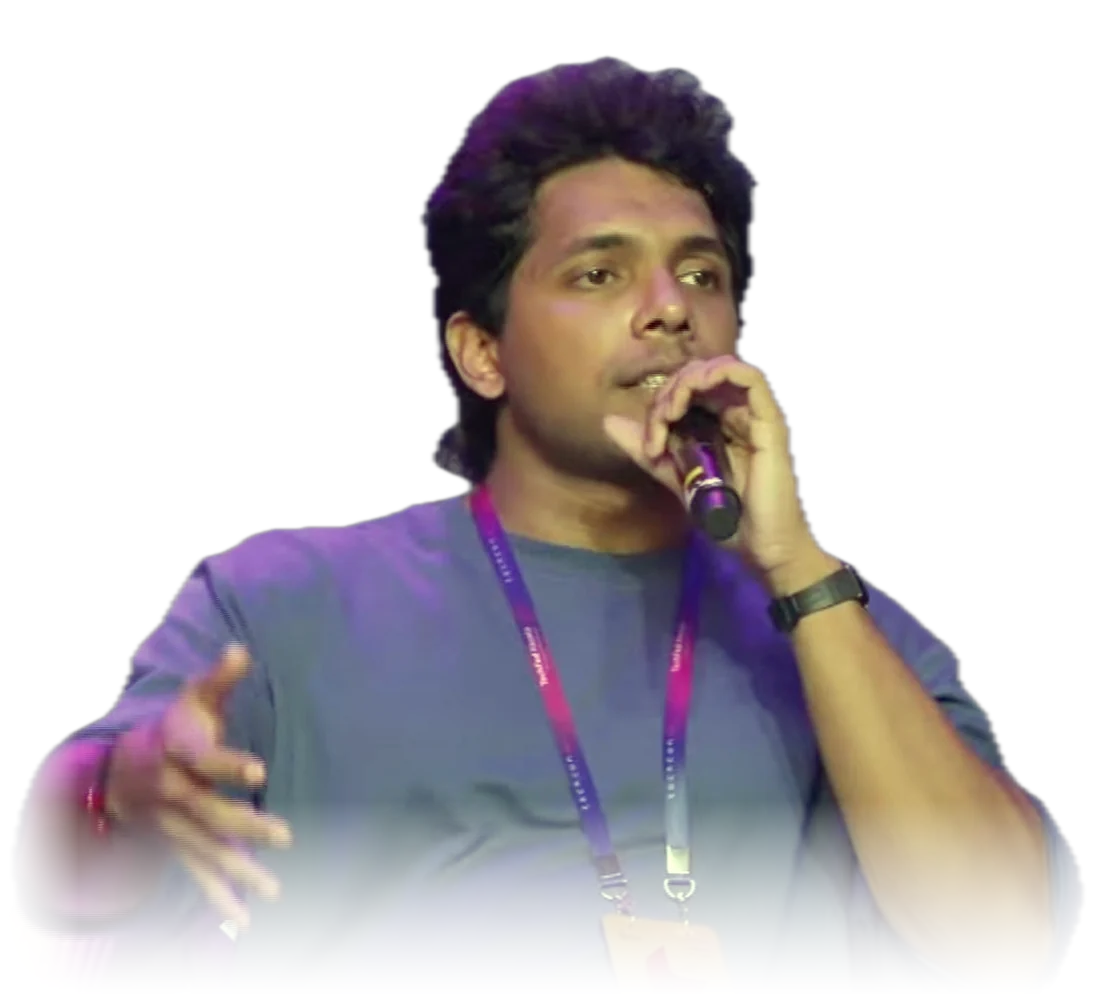
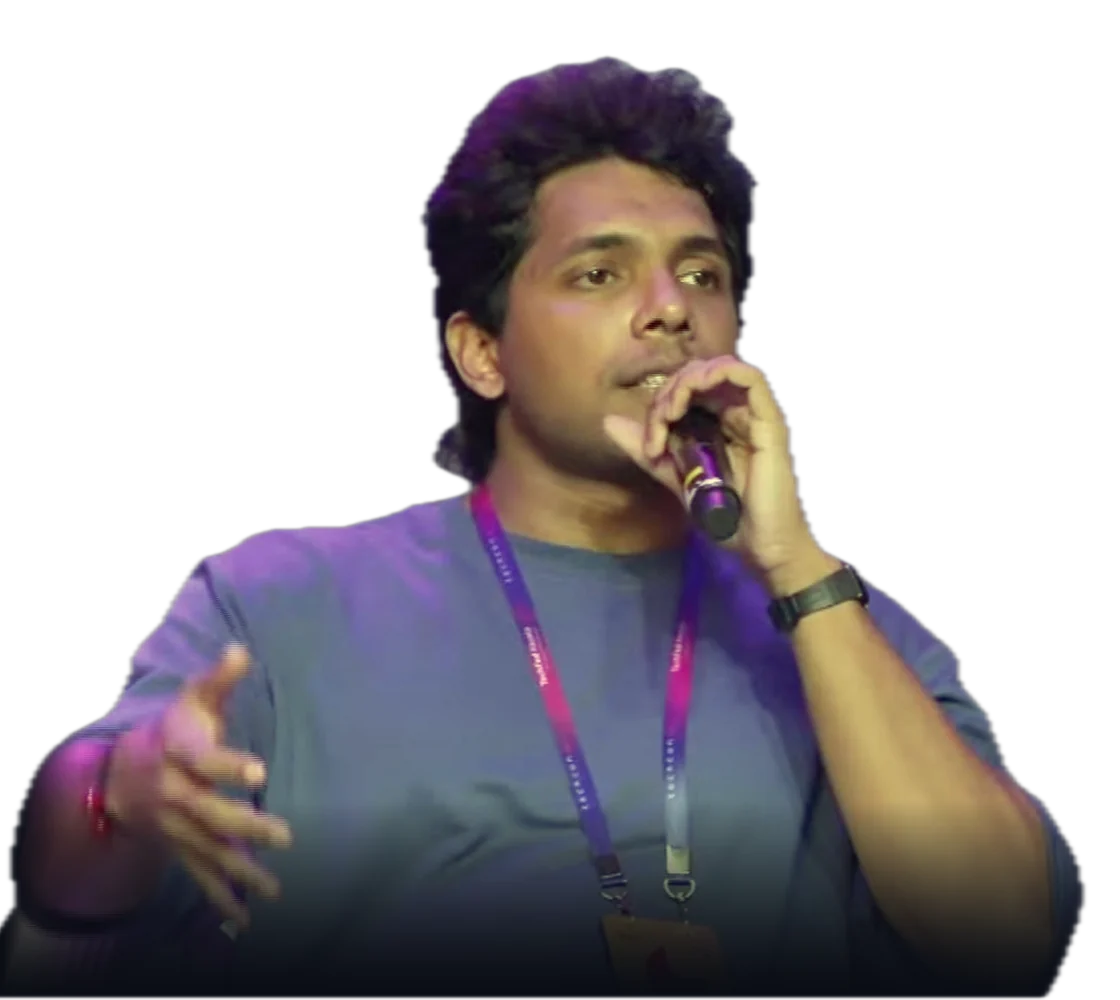
About: rings behind the portrait, shorter story, vision and mission side by side, team cards link to LinkedIn; drop numbered section labels site-wide (#10)

Changed region(s): [[0.0, 0.744, 0.9688, 1.0]]

diff --git a/src/pages/About.jsx b/src/pages/About.jsx
@@ -6,32 +6,18 @@ import karthik from "../assets/about/karthik-prakash.webp";
 import projectReport from "../assets/about/project-report.webp";
 import "./Home.css";
 
-const STORY = [
-  "Superfloat began in 2024 as a college major project. We set out to make large language models run faster on the hardware people already had, by quantizing them: holding each weight in fewer bits without losing what the model had learned. The report was called Weight-Aware Selective Quantization to Improve Performance of Deep Learning Models.",
-  "The deeper we went, the clearer one pattern became. Trained networks keep almost every weight in a narrow band of values, while the standard formats spend a large share of each number on range those weights never reach. Quantization could squeeze that waste out of memory. The arithmetic underneath still ran in floating point and still paid for it.",
-  "So we went after the numbers themselves. Out of that work came a family of numerics, from 4 bits to 16, that keeps models accurate while making every multiply-add simpler and faster. Because the arithmetic itself gets simpler, the speed-up reaches the circuit, which quantization alone could not do.",
-  "A better number only pays off on hardware built for it, so we built the hardware. Our Atreides accelerator is designed around Superfloat arithmetic from the processing element up. Three chips have been signed off on SkyWater's 130 nm process, and the first Superfloat silicon tapes out in December 2026.",
-];
-
-const PILLARS = [
-  { title: "Numerics", detail: "A family of number formats, from 4 to 16 bits, that holds a model's accuracy while making the arithmetic beneath it simpler." },
-  { title: "Silicon", detail: "Accelerators designed around those formats from the processing element up, proven at 130 nm and planned for 2 nm." },
-  { title: "Software", detail: "Compilers, kernels and Python tooling that take a trained model onto Superfloat hardware without rebuilding it." },
-];
-
 const TEAM = [
-  { name: "Alosh Denny", role: "Founder and CEO", photo: alosh },
-  { name: "Poojith Devan", role: "Director of R&D", photo: poojith },
-  { name: "Karthik Prakash", role: "Director of Compiler Design", photo: karthik },
+  { name: "Alosh Denny", role: "Founder and CEO", photo: alosh, linkedin: "https://www.linkedin.com/in/aloshdenny/" },
+  { name: "Poojith Devan", role: "Director of R&D", photo: poojith, linkedin: "https://www.linkedin.com/in/poojith-devan/" },
+  { name: "Karthik Prakash", role: "Director of Compiler Design", photo: karthik, linkedin: "https://www.linkedin.com/in/karthikp751/" },
 ];
 
 export default function About() {
   return (
     <div className="technical-home about-page">
       <section className="sf-container about-hero">
-        <div className="section-label" data-reveal="">ABOUT SUPERFLOAT</div>
-        <h1 data-reveal="1">Faster intelligence starts with <em>better numbers.</em></h1>
-        <p className="about-lede" data-reveal="2">Superfloat designs number formats for AI and the chips that compute in them. Every answer a model gives is billions of multiply-adds, and each one costs time, silicon and power. We make each of them cost less.</p>
+        <h1 data-reveal="">Faster intelligence starts with <em>better numbers.</em></h1>
+        <p className="about-lede" data-reveal="1">Superfloat designs number formats for AI and the chips that compute in them. Every answer a model gives is billions of multiply-adds, and each one costs time, silicon and power. We make each of them cost less.</p>
       </section>
 
       <section className="sf-container about-lead" aria-labelledby="about-lead-quote">
@@ -48,9 +34,9 @@ export default function About() {
 
       <section className="sf-section sf-container about-story">
         <div className="about-story__copy">
-          <div className="section-label" data-reveal="">01 / OUR STORY</div>
-          <h2 data-reveal="1">It began as a college project.</h2>
-          {STORY.map((paragraph, i) => <p key={i} data-reveal={String(Math.min(i + 1, 3))}>{paragraph}</p>)}
+          <h2 data-reveal="">Our story</h2>
+          <p data-reveal="1">Superfloat began in 2024 as a college major project on quantization: making large language models run faster by holding each weight in fewer bits, without losing what the model had learned. Along the way we saw that trained networks keep almost every weight in a narrow band of values, while standard formats spend much of each number on range those weights never reach.</p>
+          <p data-reveal="2">That took us past compression to the numbers themselves, and to a family of numerics, from 4 to 16 bits, that keeps models accurate while making every multiply-add simpler and faster. A better number pays off only on hardware built for it, so we built the Atreides accelerator around ours. Three chips are signed off on SkyWater&apos;s 130 nm process, and the first Superfloat silicon tapes out in December 2026.</p>
         </div>
         <figure className="about-story__figure" data-reveal="2">
           <img src={projectReport} width="950" height="760" loading="lazy" alt="Cover of the major project report: Weight-Aware Selective Quantization to Improve Performance of Deep Learning Models" />
@@ -58,35 +44,29 @@ export default function About() {
         </figure>
       </section>
 
-      <section className="sf-section sf-container about-vision">
-        <div className="section-label" data-reveal="">02 / OUR VISION</div>
-        <h2 data-reveal="1">Intelligence fast enough to reason in real time, and cheap enough to <em>run everywhere.</em></h2>
-        <p data-reveal="2">The cost of AI is set by its arithmetic: how many bits move, how many transistors switch, how many watts a data centre draws for every answer. We see reasoning that returns in under a millisecond, an answer priced by the work in it with nothing lost to unused bits, and the same efficiency reaching from hyperscale clusters to the devices in people&apos;s hands.</p>
-      </section>
-
-      <section className="sf-section sf-container about-mission">
-        <div className="section-label" data-reveal="">03 / OUR MISSION</div>
-        <div className="section-heading" data-reveal="1">
-          <h2>Make every bit count, from the <em>number format to the chip.</em></h2>
-          <p>We design the numerics, the silicon and the software as one system, so that models run twice as fast at half the price.</p>
+      <section className="sf-section sf-container about-aims">
+        <div data-reveal="">
+          <h2>Our vision</h2>
+          <p className="about-aims__lead">Intelligence fast enough to reason in real time, and cheap enough to run everywhere.</p>
+          <p>Reasoning that returns in under a millisecond, an answer priced by the work in it with nothing lost to unused bits, and the same efficiency from hyperscale clusters to the devices in people&apos;s hands.</p>
         </div>
-        <ol className="about-pillars" data-reveal="2">
-          {PILLARS.map((pillar, i) => <li key={pillar.title}><span>{String(i + 1).padStart(2, "0")}</span><h3>{pillar.title}</h3><p>{pillar.detail}</p></li>)}
-        </ol>
+        <div data-reveal="1">
+          <h2>Our mission</h2>
+          <p className="about-aims__lead">Make every bit count, from the number format to the chip.</p>
+          <p>We design the numerics, the silicon and the software as one system: a family of number formats, from 4 to 16 bits, that holds a model&apos;s accuracy while making the arithmetic beneath it simpler; accelerators designed around those formats from the processing element up, proven at 130 nm and planned for 2 nm; and compilers, kernels and Python tooling that take a trained model onto Superfloat hardware without rebuilding it.</p>
+        </div>
       </section>
 
       <section className="sf-section sf-container about-team">
-        <div className="section-label" data-reveal="">04 / OUR TEAM</div>
-        <div className="section-heading" data-reveal="1">
-          <h2>The people building <em>Superfloat.</em></h2>
-          <p>Hardware, numerics and compilers under one roof, from the first format to the first chip.</p>
-        </div>
+        <h2 data-reveal="">Our team</h2>
         <ul className="about-team__grid">
           {TEAM.map((person, i) => (
-            <li key={person.name} className="about-person" data-reveal={String(i + 1)}>
-              <div className="about-person__photo"><img src={person.photo} width="720" height="900" loading="lazy" alt={person.name} /></div>
-              <h3>{person.name}</h3>
-              <span>{person.role}</span>
+            <li key={person.name} data-reveal={String(i + 1)}>
+              <a className="about-person" href={person.linkedin} target="_blank" rel="noopener noreferrer" aria-label={`${person.name}, ${person.role}, on LinkedIn`}>
+                <div className="about-person__photo"><img src={person.photo} width="720" height="900" loading="lazy" alt="" /></div>
+                <h3>{person.name} <span aria-hidden="true">↗</span></h3>
+                <span className="about-person__role">{person.role}</span>
+              </a>
             </li>
           ))}
         </ul>

diff --git a/src/pages/Home.css b/src/pages/Home.css
@@ -249,8 +249,7 @@ a:focus-visible,button:focus-visible,input:focus-visible,select:focus-visible { 
 .investors-rounds { display:grid; grid-template-columns:repeat(3,1fr); gap:16px; margin-top:24px; }
 .investors-steps { list-style:none; margin:24px 0 0; padding:0; display:grid; grid-template-columns:repeat(4,1fr); gap:16px; }
 .investors-steps li { padding:24px; border:1px solid var(--sf-line); border-radius:20px; }
-.investors-steps span { font:11px var(--sf-mono); color:var(--sf-accent); letter-spacing:1px; }
-.technical-home .investors-steps h3 { margin:14px 0 8px; font-size:17px; font-weight:500; }
+.technical-home .investors-steps h3 { margin:0 0 8px; font-size:17px; font-weight:500; }
 .technical-home .investors-steps p { font-size:13px; line-height:1.6; }
 .investors-form { display:grid; grid-template-columns:1fr 1fr; gap:18px 20px; margin-top:24px; padding:32px; border:1px solid var(--sf-line); border-radius:24px; background:var(--sf-panel); }
 .investors-form label { display:flex; flex-direction:column; gap:8px; font:10px var(--sf-mono); letter-spacing:1px; color:var(--sf-muted); text-transform:uppercase; }
@@ -268,11 +267,12 @@ a:focus-visible,button:focus-visible,input:focus-visible,select:focus-visible { 
 @media(max-width:1050px) { .investors-grid,.investors-steps { grid-template-columns:repeat(2,1fr); }.investors-rounds { grid-template-columns:1fr; } }
 @media(max-width:760px) { .investors-grid,.investors-steps,.investors-form { grid-template-columns:1fr; }.investors-form { padding:22px; } }
 
-/* About: a lead quote beside the CEO's portrait (as on netrasemi.com/about), the story, vision, mission and team */
+/* About: a lead quote beside the CEO's portrait (as on netrasemi.com/about), the story, vision and mission, and the team */
 .about-hero { padding-block:96px 24px; }
-.about-hero h1 { max-width:980px; margin:22px 0 24px; font-size:clamp(44px,5.4vw,76px); font-weight:500; letter-spacing:-3px; line-height:1.05; }
+.about-hero h1 { max-width:980px; margin:0 0 24px; font-size:clamp(44px,5.4vw,76px); font-weight:500; letter-spacing:-3px; line-height:1.05; }
 .technical-home .about-lede { max-width:640px; font-size:17px; }
 .about-lead { display:grid; grid-template-columns:minmax(0,.9fr) minmax(0,1.1fr); align-items:center; gap:72px; padding-block:40px 24px; }
+/* The rings sit behind the portrait; its edges fade into the page colour but stay opaque, so they never show through the body */
 .about-lead__portrait { position:relative; isolation:isolate; width:100%; max-width:560px; justify-self:center; }
 .about-lead__portrait::before,.about-lead__portrait::after { content:""; position:absolute; z-index:-1; left:50%; top:44%; aspect-ratio:1; border-radius:50%; transform:translate(-50%,-50%); }
 .about-lead__portrait::before { width:94%; border:1px solid var(--sf-line); background:radial-gradient(circle at 50% 42%,color-mix(in srgb,var(--sf-accent) 24%,transparent),transparent 62%); }
@@ -284,25 +284,32 @@ a:focus-visible,button:focus-visible,input:focus-visible,select:focus-visible { 
 .about-lead__by { display:flex; flex-direction:column; gap:4px; margin-top:30px; padding-left:16px; border-left:2px solid var(--sf-accent); }
 .about-lead__by strong { font:600 16px Arial,Helvetica,sans-serif; color:var(--sf-ink); }
 .about-lead__by span { font:11px/1.6 var(--sf-mono); letter-spacing:1px; color:var(--sf-muted); text-transform:uppercase; }
-.about-story { display:grid; grid-template-columns:minmax(0,1.05fr) minmax(0,.95fr); align-items:start; gap:72px; }
-.technical-home .about-story h2 { margin:22px 0 10px; }
+.about-story { display:grid; grid-template-columns:minmax(0,1.05fr) minmax(0,.95fr); align-items:center; gap:72px; }
+.technical-home .about-story h2 { margin:0 0 6px; }
 .technical-home .about-story p { margin-top:20px; font-size:16px; line-height:1.8; }
-.about-story__figure { position:sticky; top:120px; margin:12px 0 0; }
+.about-story__figure { margin:0; }
 .about-story__figure img { display:block; width:100%; height:auto; border:1px solid var(--sf-line); border-radius:24px; }
 .about-story__figure figcaption { margin-top:14px; font:10px/1.6 var(--sf-mono); letter-spacing:1.5px; color:var(--sf-muted); }
-.technical-home .about-vision h2 { max-width:1100px; margin:22px 0 30px; font-size:clamp(34px,4.4vw,62px); letter-spacing:-2.4px; line-height:1.08; }
-.technical-home .about-vision p { max-width:780px; font-size:17px; line-height:1.8; }
-.about-pillars { list-style:none; margin:0; padding:0; display:grid; grid-template-columns:repeat(3,1fr); gap:16px; }
-.about-pillars li { padding:28px; border:1px solid var(--sf-line); border-radius:20px; background:var(--sf-panel); }
-.about-pillars span { font:11px var(--sf-mono); letter-spacing:1px; color:var(--sf-accent); }
-.technical-home .about-pillars h3 { margin:18px 0 10px; font-size:21px; }
-.technical-home .about-pillars p { font-size:14px; line-height:1.7; }
+.about-aims { display:grid; grid-template-columns:1fr 1fr; gap:24px; }
+.about-aims > div { padding:36px; border:1px solid var(--sf-line); border-radius:24px; background:var(--sf-panel); }
+.technical-home .about-aims h2 { font-size:clamp(26px,2.6vw,34px); letter-spacing:-1px; }
+.technical-home .about-aims .about-aims__lead { margin:18px 0 14px; font-size:20px; line-height:1.45; color:var(--sf-ink); }
+.technical-home .about-aims p { font-size:14px; line-height:1.75; }
+.technical-home .about-team h2 { margin-bottom:32px; }
 .about-team__grid { list-style:none; margin:0; padding:0; display:grid; grid-template-columns:repeat(3,1fr); gap:20px; }
-.about-person__photo { aspect-ratio:4 / 5; overflow:hidden; border:1px solid var(--sf-line); border-radius:22px; background:radial-gradient(ellipse 72% 58% at 50% 40%,color-mix(in srgb,var(--sf-accent) 17%,transparent),transparent 72%),var(--sf-panel); }
+.about-person { display:block; color:inherit; text-decoration:none; transition:transform .45s cubic-bezier(.2,.7,.2,1); }
+.about-person:hover,.about-person:focus-visible { transform:translateY(-8px); }
+.about-person:focus-visible { outline:none; }
+.about-person:focus-visible .about-person__photo { outline:2px solid var(--sf-accent); outline-offset:3px; }
+.about-person__photo { aspect-ratio:4 / 5; overflow:hidden; border:1px solid var(--sf-line); border-radius:22px; background:radial-gradient(ellipse 72% 58% at 50% 40%,color-mix(in srgb,var(--sf-accent) 17%,transparent),transparent 72%),var(--sf-panel); transition:border-color .45s,box-shadow .45s; }
+.about-person:hover .about-person__photo,.about-person:focus-visible .about-person__photo { border-color:color-mix(in srgb,var(--sf-accent) 55%,var(--sf-line)); box-shadow:0 28px 70px -40px var(--sf-accent); }
 .about-person__photo img { display:block; width:100%; height:100%; object-fit:cover; }
 .technical-home .about-person h3 { margin:20px 0 4px; font-size:20px; }
-.about-person span { font:11px/1.6 var(--sf-mono); letter-spacing:1px; color:var(--sf-muted); text-transform:uppercase; }
+.about-person h3 span { color:var(--sf-muted); font-size:15px; transition:color .3s; }
+.about-person:hover h3 span,.about-person:focus-visible h3 span { color:var(--sf-accent); }
+.about-person__role { font:11px/1.6 var(--sf-mono); letter-spacing:1px; color:var(--sf-muted); text-transform:uppercase; }
 .technical-home .about-team__join { margin:44px 0 40px; font-size:14px; }
 .about-team__join a { color:var(--sf-accent); text-decoration:none; }
-@media(max-width:1050px) { .about-lead,.about-story { gap:44px; }.about-story { grid-template-columns:1fr; }.about-story__figure { position:static; max-width:620px; } }
-@media(max-width:760px) { .about-hero { padding-block:64px 8px; }.about-lead { grid-template-columns:1fr; gap:36px; }.about-lead__portrait { max-width:420px; }.about-lead__mark { margin-top:28px; }.about-pillars,.about-team__grid { grid-template-columns:1fr; }.about-person { max-width:420px; } }
+@media(max-width:1050px) { .about-lead,.about-story { gap:44px; }.about-story { grid-template-columns:1fr; }.about-story__figure { max-width:620px; } }
+@media(max-width:760px) { .about-hero { padding-block:64px 8px; }.about-lead { grid-template-columns:1fr; gap:36px; }.about-lead__portrait { max-width:420px; }.about-lead__mark { margin-top:28px; }.about-aims,.about-team__grid { grid-template-columns:1fr; }.about-aims > div { padding:26px; }.about-team__grid li { max-width:420px; } }
+@media(prefers-reduced-motion:reduce) { .about-person,.about-person__photo { transition:none; }.about-person:hover,.about-person:focus-visible { transform:none; } }

diff --git a/src/pages/blogs/accelerated-hardware.js b/src/pages/blogs/accelerated-hardware.js
@@ -3,10 +3,10 @@ const acceleratedHardware = {
   body: `
 <p class="article-lead">A guide to the interactive lab: what it visualizes, how its numbers are calculated, and where the model stops.</p>
 <aside class="article-note">Implementation notes, not benchmark results. This page describes the website’s educational model. It does not establish measured latency, energy use, silicon area, or neural-network accuracy.</aside>
-<h2>01 / Representation comes first</h2>
+<h2>Representation comes first</h2>
 <p>The format explorer places two layouts side by side conceptually. BF16 allocates one sign bit, eight exponent bits, and seven fraction bits. The Superfloat view uses one sign bit and a scalable value field, with a total width from 4 to 16 bits.</p>
 <p>The displayed bit pattern is a field-layout illustration. Switching formats does not numerically convert the same value between them. A complete numerical specification would also need to define scaling, rounding, saturation, and representable values.</p>
-<h2>02 / Count the storage, not the speedup</h2>
+<h2>Count the storage, not the speedup</h2>
 <p>For an ideally packed tensor containing N values at b bits per value, the payload requires N × b / 8 bytes. One million 16-bit values occupy 2.00 MB; one million 4-bit values occupy 0.50 MB, using decimal megabytes.</p>
 <pre><code>payload_bytes = value_count * bits_per_value / 8
 relative_storage = bits_per_value / 16
@@ -16,11 +16,11 @@ BF16: 2,000,000 bytes
 SF8:  1,000,000 bytes
 SF4:    500,000 bytes</code></pre>
 <p>This calculation excludes alignment, scales, metadata, and runtime allocations. A 75% reduction in payload bits is not a 75% reduction in inference latency or energy. Those quantities require measurements on a specified implementation.</p>
-<h2>03 / A multiply-accumulate in flight</h2>
+<h2>A multiply-accumulate in flight</h2>
 <p>The scalar lab traces an operation of the form c ← a × b + c. It uses a nine-stage pipeline model and counts a multiply-accumulate as two operations.</p>
 <p>Pipeline latency and issue rate describe different things. A result takes multiple stages to arrive, while independent operands can occupy those stages at the same time. Under the lab’s assumption of one completed MAC per clock after filling, the steady-state modeled rate is 2 × clock frequency operations per second. Occupying nine stages does not mean completing nine MACs every clock.</p>
 <p>Use <strong>Step +1</strong> to inspect one model cycle at a time. Play compresses a run into a few visible seconds; the clock controls the calculated hardware time, not the browser’s playback speed.</p>
-<h2>04 / From one element to an array</h2>
+<h2>From one element to an array</h2>
 <p>In the array visualization, each processing element contributes to an output in C = A × B. Data arrives at staggered times, multiplication and accumulation overlap, and the array eventually drains. The operands are deterministic sample values for inspection, not tensors from a trained network.</p>
 <p>The comparison view uses illustrative BF16 latency parameters of 16 or 32 cycles against the scalar model’s nine-stage latency. It also scales the illustrated BF16 cadence by that ratio. This is a simplifying assumption: an instruction’s latency alone does not determine an accelerator’s throughput. The view is not a cycle-accurate model of an NVIDIA Tensor Core.</p>
 <pre><code>illustrative_cadence_ratio = BF16_latency / 9
@@ -30,7 +30,7 @@ modeled_time_seconds = model_cycles / clock_hz
 16 / 9 ≈ 1.78
 32 / 9 ≈ 3.56</code></pre>
 <p>These ratios must not be presented as measured end-to-end speedups. Memory traffic, tile shape, scheduling, software, and the actual datapath can all change the result.</p>
-<h2>05 / What a reproducible benchmark needs</h2>
+<h2>What a reproducible benchmark needs</h2>
 <ul><li><strong>Numerics:</strong> the precise encoding, conversion rules, calibration procedure, and accuracy on a named model and dataset.</li><li><strong>Hardware:</strong> the device or implementation revision, clock, memory configuration, and power-measurement method.</li><li><strong>Workload:</strong> tensor shapes, batch size, precision, warm-up, and whether transfer time is included.</li><li><strong>Comparison:</strong> equivalent workloads, the baseline implementation, repeated runs, and reported variation.</li></ul>
 <p>The website currently provides a way to inspect the design space. Validated benchmark results can be added alongside their methodology and reproducible artifacts when available.</p>
 <p><a href="/#architecture">Return to the compute lab →</a></p>

diff --git a/src/pages/Home.jsx b/src/pages/Home.jsx
@@ -36,21 +36,21 @@ export default function Home() {
         <div className="hero-stage" data-reveal="3"><GlyphHero /></div>
       </section>
       <section id="technology" className="sf-section sf-container">
-        <div className="section-label" data-reveal="">01 / THE NUMBER FORMAT</div>
+        <div className="section-label" data-reveal="">THE NUMBER FORMAT</div>
         <div className="section-heading" data-reveal="1"><h2>Precision is a<br /><em>design variable.</em></h2><p>Every stored bit has a cost. Superfloat lets you explore word widths from SF4 to SF16, making numerical representation part of the hardware design space.</p></div>
         <div data-reveal="2"><FormatExplorer /></div>
         <div className="format-notes" data-reveal="1"><p><span>READ THE WORD</span>BF16 separates sign, exponent, and fraction. The Superfloat view highlights the sign and scalable value field.</p><p><span>CHOOSE THE TRADEOFF</span>Fewer bits reduce raw storage per value. Model accuracy and realized speed depend on the workload and implementation.</p></div>
       </section>
       <section className="architecture-band" id="architecture">
         <div className="sf-container sf-section">
-          <div className="section-label" data-reveal="">02 / THE COMPUTE LAB</div>
+          <div className="section-label" data-reveal="">THE COMPUTE LAB</div>
           <div className="section-heading" data-reveal="1"><h2>2× faster<br /><em>at ½ the price.</em></h2><p>The same multiply-accumulate, without the exponent hardware. Watch an SF16 unit and a BF16 unit run side by side, then flip to the systolic arrays they build.</p></div>
           <div className="lab-array" data-reveal="2"><ComputeArray /></div>
           <div data-reveal="2"><FormatRace /></div>
         </div>
       </section>
       <section id="applications" className="sf-section sf-container">
-        <div className="section-label" data-reveal="">03 / THE DESIGN SPACE</div>
+        <div className="section-label" data-reveal="">THE DESIGN SPACE</div>
         <div className="section-heading" data-reveal="1"><h2>Big models.<br /><em>Finite resources.</em></h2><p>Edge inference lives inside constraints. A configurable datatype gives hardware designers another variable to investigate.</p></div>
         <div className="use-case-grid">
           <article data-reveal="1"><div className="case-glyph" aria-hidden="true">[ W ] → [ W′ ]</div><span className="section-label">MEMORY / REPRESENTATION</span><h3>Make every bit count.</h3><p>Explore smaller representations for weights and activations. Evaluate storage savings alongside the numerical behavior of your workload.</p><span className="case-tag">WEIGHTS · ACTIVATIONS · STORAGE</span></article>
@@ -59,11 +59,11 @@ export default function Home() {
         </div>
       </section>
       <section className="research-section sf-container">
-        <div data-reveal="1"><div className="section-label">04 / FIELD NOTES</div><h2>Under the hood.</h2><p>Ideas, architecture, and the details behind the datapath.</p></div>
+        <div data-reveal="1"><div className="section-label">FIELD NOTES</div><h2>Under the hood.</h2><p>Ideas, architecture, and the details behind the datapath.</p></div>
         <Link to="/blogs/accelerated-hardware" className="research-link" data-reveal="2"><span className="section-label">ARCHITECTURE / IMPLEMENTATION NOTES</span><h3>Inside the Superfloat compute model <span>↗</span></h3><span>Read the model, math, and limitations</span></Link>
       </section>
       <section id="raise" className="sf-section sf-container raise-section">
-        <div className="section-label" data-reveal="">05 / THE RAISE</div>
+        <div className="section-label" data-reveal="">THE RAISE</div>
         <div className="section-heading" data-reveal="1"><h2>From 130 nm to 2 nm,<br /><em>one stage at a time.</em></h2><p>Each stage puts the format in silicon that the next stage builds on. We raise for the stage in front of us.</p></div>
         <ol className="raise-now">
           {RAISE_NOW.map((stage, i) => (

diff --git a/src/pages/Investors.jsx b/src/pages/Investors.jsx
@@ -61,14 +61,14 @@ export default function Investors() {
       </section>
 
       <section className="sf-section sf-container">
-        <div className="section-label" data-reveal="">01 / WHAT WE SHARE AFTER AN INTRO</div>
+        <div className="section-label" data-reveal="">WHAT WE SHARE AFTER AN INTRO</div>
         <div className="investors-grid" data-reveal="1">
           {SHARED.map((item) => <article key={item.title} className="investors-card"><h3>{item.title}</h3><p>{item.detail}</p></article>)}
         </div>
       </section>
 
       <section className="sf-section sf-container">
-        <div className="section-label" data-reveal="">02 / THE ROUNDS AHEAD</div>
+        <div className="section-label" data-reveal="">THE ROUNDS AHEAD</div>
         <div className="investors-rounds" data-reveal="1">
           {ROUNDS.map((round) => (
             <article key={round.title} className="raise-stage is-later">
@@ -84,14 +84,14 @@ export default function Investors() {
       </section>
 
       <section className="sf-section sf-container">
-        <div className="section-label" data-reveal="">03 / HOW IT WORKS</div>
+        <div className="section-label" data-reveal="">HOW IT WORKS</div>
         <ol className="investors-steps" data-reveal="1">
-          {STEPS.map((step, i) => <li key={step.title}><span>{String(i + 1).padStart(2, "0")}</span><h3>{step.title}</h3><p>{step.detail}</p></li>)}
+          {STEPS.map((step) => <li key={step.title}><h3>{step.title}</h3><p>{step.detail}</p></li>)}
         </ol>
       </section>
 
       <section id="interest" className="sf-section sf-container">
-        <div className="section-label" data-reveal="">04 / REGISTER YOUR INTEREST</div>
+        <div className="section-label" data-reveal="">REGISTER YOUR INTEREST</div>
         <form className="investors-form" onSubmit={submit} data-reveal="1">
           <label>Name<input name="name" required autoComplete="name" /></label>
           <label>Email<input name="email" type="email" required autoComplete="email" /></label>
